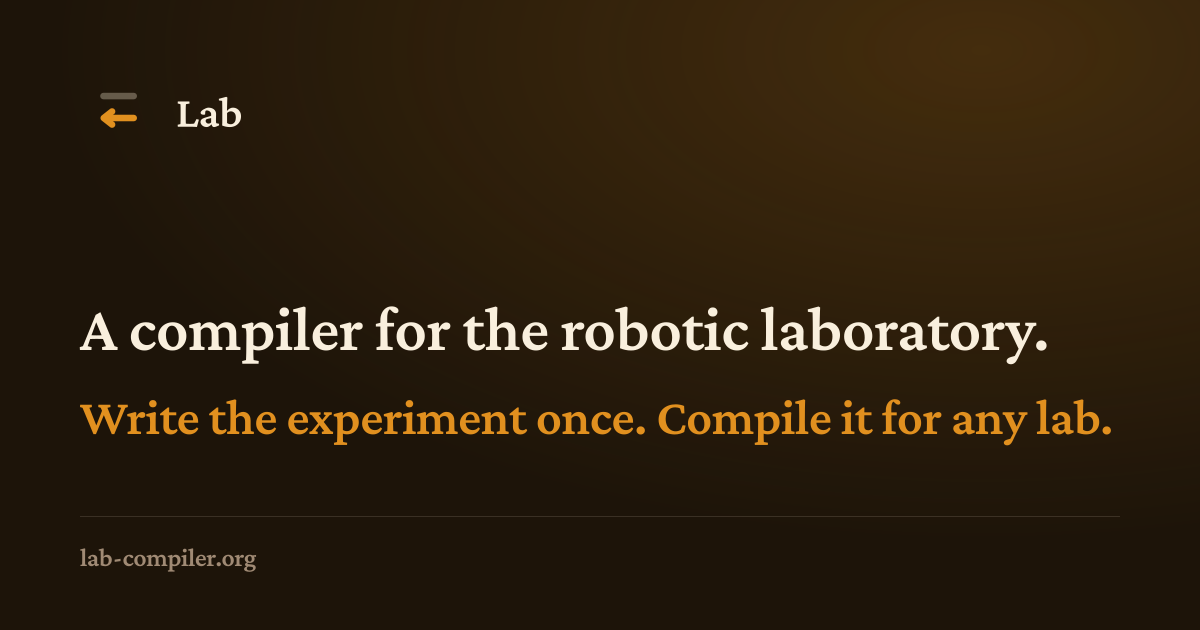
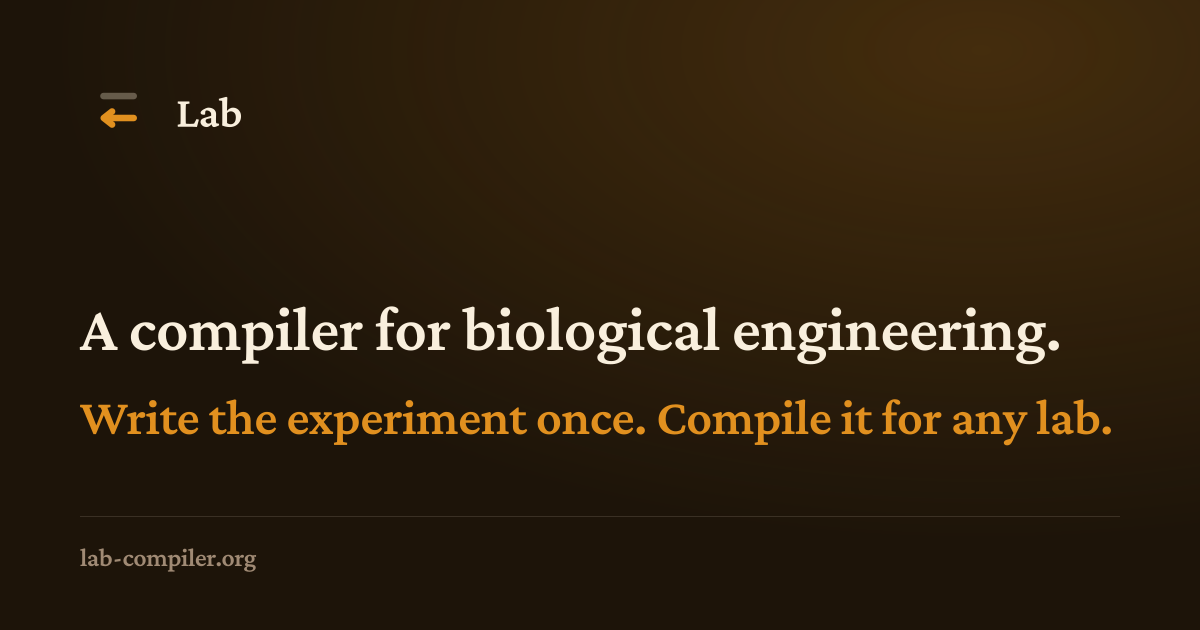
Update hero header

Changed region(s): [[0.37, 0.4825, 0.8942, 0.6032]]

diff --git a/index.html b/index.html
@@ -57,7 +57,7 @@
     <meta property="og:image:height" content="630" />
     <meta
       property="og:image:alt"
-      content="Lab: a compiler for the robotic laboratory. Write the experiment once, in Lab or Python, and compile it for any lab."
+      content="Lab: a compiler for biological engineering. Write the experiment once, in Lab or Python, and compile it for any lab."
     />
     <meta name="twitter:card" content="summary_large_image" />
     <meta name="twitter:title" content="The Lab Compiler" />

diff --git a/src/components/home/hero-section.tsx b/src/components/home/hero-section.tsx
@@ -21,7 +21,7 @@ export function HeroSection() {
         <div>
           <h1 className="type-display mt-6 text-[clamp(2.375rem,5.65vw,5.25rem)]">
             <span className="block text-pretty">
-              A compiler for the robotic laboratory.
+              A compiler for biological engineering.
             </span>
             <span className="mt-[0.06em] block text-balance text-[0.82em] font-light text-amber-deep">
               Write the experiment once. Compile it for any lab.

diff --git a/scripts/og-images.py b/scripts/og-images.py
@@ -37,7 +37,7 @@ WORDMARK_SIZE = 44
 HEADLINE_SIZE = 64
 FOOTER_SIZE = 26
 
-HEADLINE = "A compiler for the robotic laboratory."
+HEADLINE = "A compiler for biological engineering."
 SUBHEAD = "Write the experiment once. Compile it for any lab."
 FOOTER = "lab-compiler.org"
 
@@ -75,7 +75,7 @@ def card(static, shaper):
             f'<svg xmlns="http://www.w3.org/2000/svg" width="{WIDTH}"'
             f' height="{HEIGHT}" viewBox="0 0 {WIDTH} {HEIGHT}" role="img"'
             ' aria-labelledby="title">',
-            '  <title id="title">Lab: a compiler for the robotic laboratory</title>',
+            '  <title id="title">Lab: a compiler for biological engineering</title>',
             "  <defs>",
             '    <radialGradient id="emission" cx="82%" cy="8%" r="78%">',
             f'      <stop offset="0%" stop-color="{AMBER}" stop-opacity=".20"/>',
